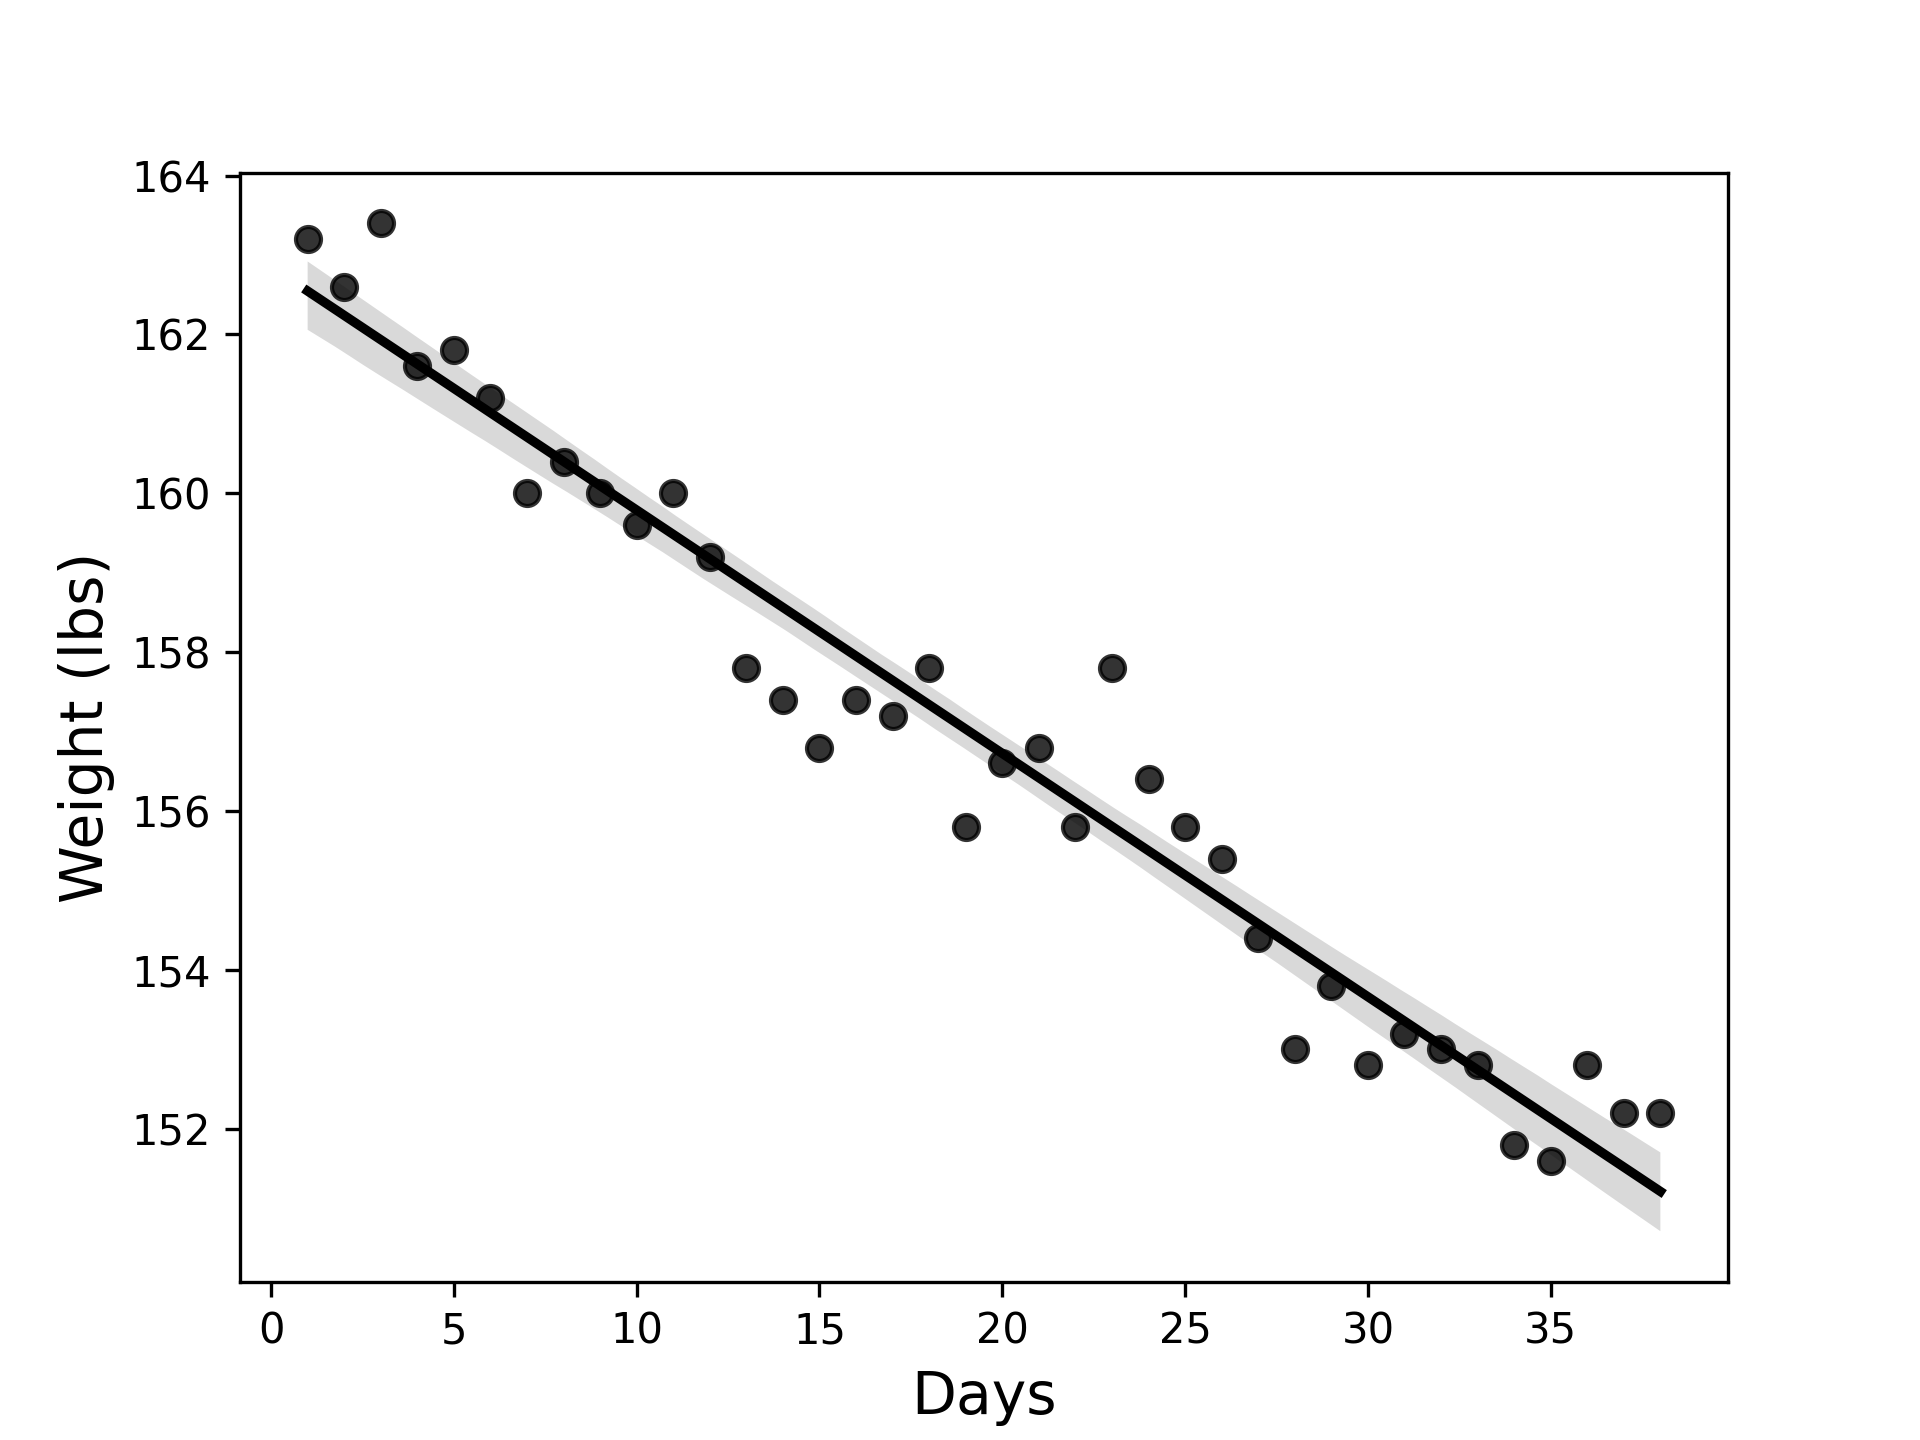
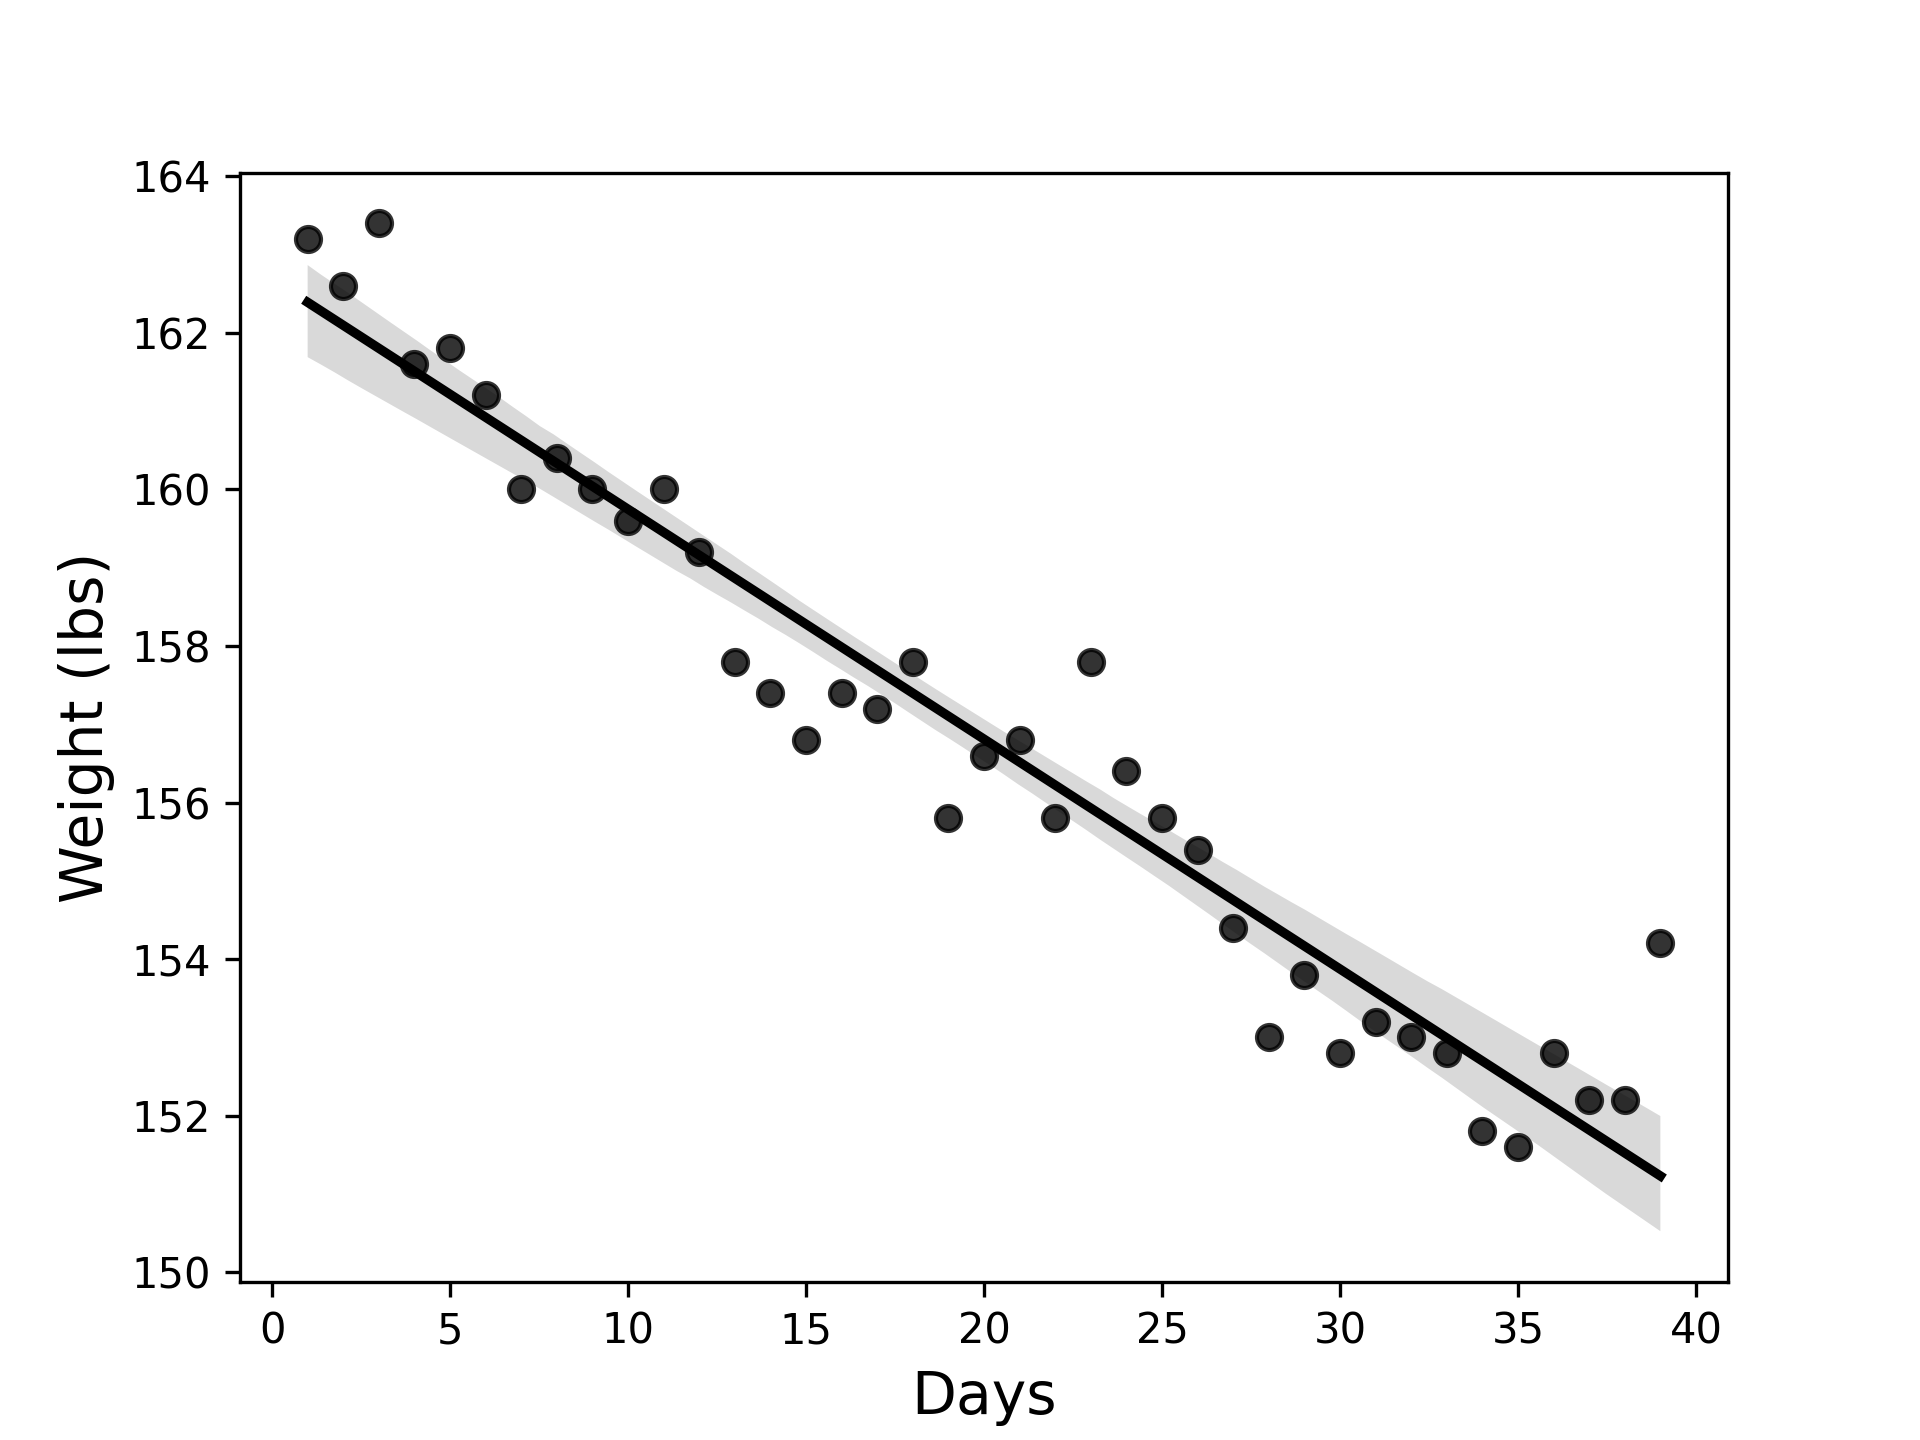
Updated weight.py and weight.png

diff --git a/Weight.py b/Weight.py
@@ -6,10 +6,10 @@ import seaborn as sns
 
 # Creates an array of elapsed days and assigns it to days_elapsed
 days_elapsed = np.array([1, 2, 3 ,4, 5, 6, 7, 8, 9, 10,11,12,13, 14,15,16,17,18,
-                         19, 20,21,22,23,24,25,26,27,28,29,30,31,32,33,34,35,36,37,38]).reshape(-1,1)
+                         19, 20,21,22,23,24,25,26,27,28,29,30,31,32,33,34,35,36,37,38,39]).reshape(-1,1)
 weight = np.array([163.2, 162.6, 163.4, 161.6, 161.8, 161.2, 160.0, 160.4, 160.0, 159.6,160.0,159.2,157.8, 157.4,156.8,157.4,
                    157.2, 157.8,155.8, 156.6,156.8,155.8,157.8,156.4,155.8,155.4,154.4,153.0,153.8,152.8,153.2,
-                   153.0,152.8,151.8,151.6,152.8,152.2,152.2])
+                   153.0,152.8,151.8,151.6,152.8,152.2,152.2,154.2])
 
 # Instantiates a LinearRegression model and fits it to the above arrays
 model = sklearn.linear_model.LinearRegression().fit(days_elapsed,weight)
